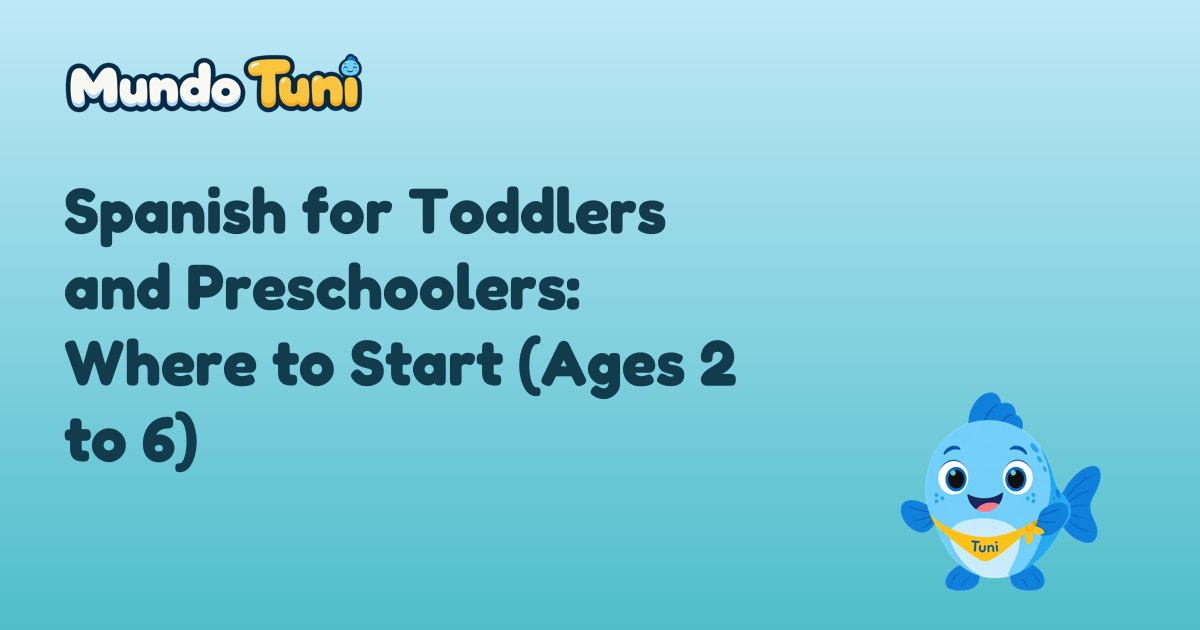
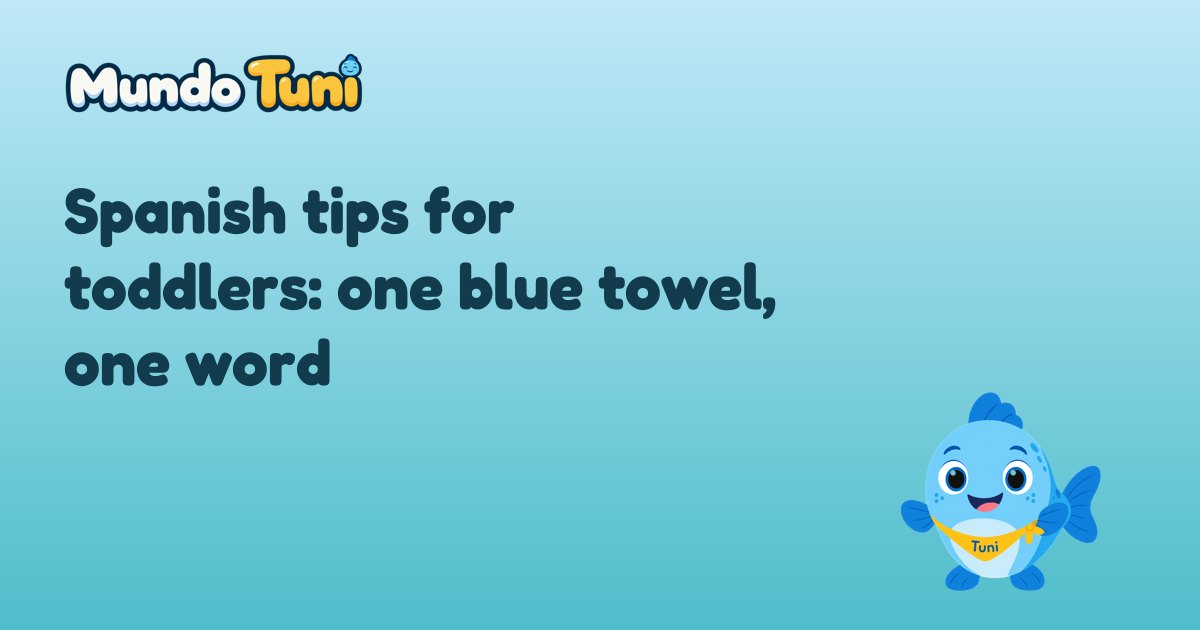
Publica el juego de la toalla azul en la guía de español para familias

Changed region(s): [[0.0308, 0.3921, 0.6475, 0.754], [0.2467, 0.3016, 0.555, 0.3921]]

diff --git a/en/blog/spanish-for-toddlers.html b/en/blog/spanish-for-toddlers.html
@@ -3,8 +3,8 @@
 <head>
   <meta charset="utf-8">
   <meta name="viewport" content="width=device-width, initial-scale=1">
-  <title>Spanish for Toddlers: A Parent’s Guide, Ages 2 to 6 · Mundo Tuni</title>
-  <meta name="description" content="Spanish for toddlers and preschoolers: when to start, why exposure and live talk matter, first words, songs, routines and what to check in an app.">
+  <title>Spanish Tips for Toddlers: A Blue Towel Game · Mundo Tuni</title>
+  <meta name="description" content="Try one Spanish word at laundry time: show a blue towel, say azul, find something blue, then fold it together. Three steps to try with your toddler.">
 <link rel="canonical" href="https://mundotuni.com/en/blog/spanish-for-toddlers.html">  <link rel="alternate" hreflang="en" href="https://mundotuni.com/en/blog/spanish-for-toddlers.html">
   <link rel="alternate" hreflang="x-default" href="https://mundotuni.com/en/blog/spanish-for-toddlers.html">
 <meta name="robots" content="index, follow, max-image-preview:large, max-snippet:-1">  <meta name="theme-color" content="#87CEEB">
@@ -12,16 +12,16 @@
   <meta property="og:type" content="article">
   <meta property="og:site_name" content="Mundo Tuni">
   <meta property="og:locale" content="en_US">
-  <meta property="og:title" content="Spanish for Toddlers: A Parent’s Guide, Ages 2 to 6 · Mundo Tuni">
-  <meta property="og:description" content="Spanish for toddlers and preschoolers: when to start, why exposure and live talk matter, first words, songs, routines and what to check in an app.">
+  <meta property="og:title" content="Spanish Tips for Toddlers: A Blue Towel Game · Mundo Tuni">
+  <meta property="og:description" content="Try one Spanish word at laundry time: show a blue towel, say azul, find something blue, then fold it together. Three steps to try with your toddler.">
   <meta property="og:url" content="https://mundotuni.com/en/blog/spanish-for-toddlers.html">
   <meta property="og:image" content="https://mundotuni.com/img/og/spanish-for-toddlers.jpg">
   <meta property="og:image:width" content="1200">
   <meta property="og:image:height" content="630">
-  <meta property="og:image:alt" content="Spanish for Toddlers and Preschoolers: Where to Start (Ages 2 to 6) · Mundo Tuni">
+  <meta property="og:image:alt" content="Spanish tips for toddlers: one blue towel, one word · Mundo Tuni">
   <meta name="twitter:card" content="summary_large_image">
-  <meta name="twitter:title" content="Spanish for Toddlers: A Parent’s Guide, Ages 2 to 6 · Mundo Tuni">
-  <meta name="twitter:description" content="Spanish for toddlers and preschoolers: when to start, why exposure and live talk matter, first words, songs, routines and what to check in an app.">
+  <meta name="twitter:title" content="Spanish Tips for Toddlers: A Blue Towel Game · Mundo Tuni">
+  <meta name="twitter:description" content="Try one Spanish word at laundry time: show a blue towel, say azul, find something blue, then fold it together. Three steps to try with your toddler.">
   <meta name="twitter:image" content="https://mundotuni.com/img/og/spanish-for-toddlers.jpg">
   <link rel="icon" href="../../icon.png" type="image/png">
   <link rel="apple-touch-icon" href="../../apple-touch-icon.png">
@@ -32,12 +32,12 @@
   {"@context":"https://schema.org","@type":"Organization","@id":"https://mundotuni.com/#organization","name":"Mundo Tuni","url":"https://mundotuni.com/","logo":"https://mundotuni.com/icon-512.png","sameAs":["https://www.instagram.com/mundotuni/", "https://www.tiktok.com/@mundotuni", "https://www.youtube.com/@mundotuniapp"]}
   </script>
   <meta property="article:published_time" content="2026-10-31">
-  <meta property="article:modified_time" content="2026-11-22">
+  <meta property="article:modified_time" content="2026-11-25">
   <script type="application/ld+json">
-  {"@context":"https://schema.org","@type":"BlogPosting","headline":"Spanish for Toddlers and Preschoolers: Where to Start (Ages 2 to 6)","description":"Spanish for toddlers and preschoolers: when to start, why exposure and live talk matter, first words, songs, routines and what to check in an app.","datePublished":"2026-10-31","dateModified":"2026-11-22","inLanguage":"en-US","mainEntityOfPage":"https://mundotuni.com/en/blog/spanish-for-toddlers.html","wordCount":1577,"keywords":"Spanish for toddlers, Spanish for preschoolers, how to teach my toddler Spanish, when to start teaching toddler Spanish, Spanish app for toddlers, Spanish immersion at home","image":"https://mundotuni.com/img/og/spanish-for-toddlers.jpg","author":{"@type":"Organization","@id":"https://mundotuni.com/#organization","name":"Mundo Tuni","url":"https://mundotuni.com/"},"publisher":{"@type":"Organization","@id":"https://mundotuni.com/#organization","name":"Mundo Tuni","url":"https://mundotuni.com/","logo":{"@type":"ImageObject","url":"https://mundotuni.com/icon-512.png"}}}
+  {"@context":"https://schema.org","@type":"BlogPosting","headline":"Spanish tips for toddlers: one blue towel, one word","description":"Try one Spanish word at laundry time: show a blue towel, say azul, find something blue, then fold it together. Three steps to try with your toddler.","datePublished":"2026-10-31","dateModified":"2026-11-25","inLanguage":"en-US","mainEntityOfPage":"https://mundotuni.com/en/blog/spanish-for-toddlers.html","wordCount":1672,"keywords":"Spanish for toddlers, Spanish for preschoolers, how to teach my toddler Spanish, when to start teaching toddler Spanish, Spanish app for toddlers, Spanish immersion at home","image":"https://mundotuni.com/img/og/spanish-for-toddlers.jpg","author":{"@type":"Organization","@id":"https://mundotuni.com/#organization","name":"Mundo Tuni","url":"https://mundotuni.com/"},"publisher":{"@type":"Organization","@id":"https://mundotuni.com/#organization","name":"Mundo Tuni","url":"https://mundotuni.com/","logo":{"@type":"ImageObject","url":"https://mundotuni.com/icon-512.png"}}}
   </script>
   <script type="application/ld+json">
-  {"@context":"https://schema.org","@type":"BreadcrumbList","itemListElement":[{"@type":"ListItem","position":1,"name":"Mundo Tuni","item":"https://mundotuni.com/en/"},{"@type":"ListItem","position":2,"name":"Blog","item":"https://mundotuni.com/en/blog/"},{"@type":"ListItem","position":3,"name":"Spanish for Toddlers and Preschoolers: Where to Start (Ages 2 to 6)","item":"https://mundotuni.com/en/blog/spanish-for-toddlers.html"}]}
+  {"@context":"https://schema.org","@type":"BreadcrumbList","itemListElement":[{"@type":"ListItem","position":1,"name":"Mundo Tuni","item":"https://mundotuni.com/en/"},{"@type":"ListItem","position":2,"name":"Blog","item":"https://mundotuni.com/en/blog/"},{"@type":"ListItem","position":3,"name":"Spanish tips for toddlers: one blue towel, one word","item":"https://mundotuni.com/en/blog/spanish-for-toddlers.html"}]}
   </script>
   <script type="module" src="https://static.cloudflareinsights.com/beacon.min.js" data-cf-beacon='{"token": "f3261326926c4605a8eb90123276466e"}'></script>
 </head>
@@ -65,9 +65,9 @@
   <header class="page-hero post-hero">
     <div class="wrap narrow">
       <p class="eyebrow"><a href="../../en/blog/">Blog</a></p>
-      <h1>Spanish for Toddlers and Preschoolers: Where to Start (Ages 2 to 6)</h1>
-      <p class="lead">A toddler can start hearing Spanish at any age, whether or not you speak it. What the research we reviewed links to progress is how much Spanish a child hears and whether it comes from people who respond. This guide gathers the basics and points to our detailed articles on each step.</p>
-      <p class="post-meta">Published <time datetime="2026-10-31">October 31, 2026</time> · Updated <time datetime="2026-11-22">November 22, 2026</time> · 8 min read</p>
+      <h1>Spanish tips for toddlers: one blue towel, one word</h1>
+      <p class="lead">Start with one blue towel and one Spanish word: azul. This guide shows you what to say, how to invite a turn and where to find more words, songs and routines for ages 2 to 6.</p>
+      <p class="post-meta">Published <time datetime="2026-10-31">October 31, 2026</time> · Updated <time datetime="2026-11-25">November 25, 2026</time> · 9 min read</p>
     </div>
   </header>
   <div class="section">
@@ -76,7 +76,10 @@
         <p class="toc-title">In this article</p>
         <ol><li><a href="#can-a-toddler-learn-spanish-at-home-if-you-dont-sp">Can a toddler learn Spanish at home if you don’t speak it?</a></li><li><a href="#what-does-research-say-about-how-toddlers-learn-a-">What does research say about how toddlers learn a second language?</a></li><li><a href="#when-should-you-start-teaching-your-toddler-spanis">When should you start teaching your toddler Spanish?</a></li><li><a href="#which-spanish-words-and-phrases-come-first">Which Spanish words and phrases come first?</a></li><li><a href="#songs-books-and-daily-routines">Songs, books and daily routines</a></li><li><a href="#spain-spanish-or-latin-american-spanish">Spain Spanish or Latin American Spanish?</a></li><li><a href="#if-your-child-understands-spanish-but-answers-in-e">If your child understands Spanish but answers in English</a></li><li><a href="#where-do-apps-fit-and-what-should-you-check">Where do apps fit, and what should you check?</a></li><li><a href="#and-in-mundo-tuni">And in Mundo Tuni?</a></li><li><a href="#frequently-asked-questions">Frequently asked questions</a></li></ol>
       </nav>
-      <p>Adding Spanish to a toddler’s life doesn’t need a fluent parent, a special method or a particular age. The pediatric and speech-language sources we read say young children can learn more than one language and that doing so doesn’t cause delay. The studies we cite point to two things you can work on: how much Spanish your child hears, and whether it comes through real back-and-forth with people. None of them promises fluency, and we won’t either.</p>
+      <p>Putting away laundry? Hold up a blue towel and say <span lang="es">“Azul”</span> (blue). Invite your child to find one more blue thing nearby, then fold the towel together. Looking or pointing is enough; your child does not have to say the word.</p>
+<p>The <a href="colors-numbers-in-spanish-for-kids.html#blue-towel-game">three-step blue towel game</a> gives you the full instructions and a way to try the same word with a toy another day. Start there, then use this guide to choose a few words, a song or a routine that fits your family. The game is our play suggestion, not a tested learning program.</p>
+
+<p>Adding Spanish to a toddler’s life doesn’t need a fluent parent, a special method or a particular age. The pediatric and speech-language sources we read say young children can learn more than one language and that doing so doesn’t cause delay. The studies we cite point to two things you can work on: how much Spanish your child hears, and whether it comes through real back-and-forth with people. None of them promises fluency, and we won’t either.</p>
 
 <div class="box">
   <p><strong>The short version</strong></p>

diff --git a/en/blog/index.html b/en/blog/index.html
@@ -34,7 +34,7 @@
   {"@context":"https://schema.org","@type":"Organization","@id":"https://mundotuni.com/#organization","name":"Mundo Tuni","url":"https://mundotuni.com/","logo":"https://mundotuni.com/icon-512.png","sameAs":["https://www.instagram.com/mundotuni/", "https://www.tiktok.com/@mundotuni", "https://www.youtube.com/@mundotuniapp"]}
   </script>
   <script type="application/ld+json">
-  {"@context":"https://schema.org","@type":"Blog","name":"Mundo Tuni Blog \u00b7 Learning Through Play, Ages 2 to 6","url":"https://mundotuni.com/en/blog/","inLanguage":"en-US","publisher":{"@type":"Organization","name":"Mundo Tuni","url":"https://mundotuni.com/","logo":"https://mundotuni.com/icon-512.png"},"blogPost":[{"@type":"BlogPosting","headline":"The Spanish Alphabet for Kids: Letters, Names and Sounds","url":"https://mundotuni.com/en/blog/spanish-alphabet-for-kids.html","datePublished":"2026-11-20"},{"@type":"BlogPosting","headline":"How we write our guides","url":"https://mundotuni.com/en/blog/how-we-write-our-guides.html","datePublished":"2026-11-13"},{"@type":"BlogPosting","headline":"Screen-free games to share at home","url":"https://mundotuni.com/en/blog/screen-free-games-at-home-ages-2-6.html","datePublished":"2026-11-13"},{"@type":"BlogPosting","headline":"Spanish for Toddlers and Preschoolers: Where to Start (Ages 2 to 6)","url":"https://mundotuni.com/en/blog/spanish-for-toddlers.html","datePublished":"2026-10-31"},{"@type":"BlogPosting","headline":"How Long Can a Toddler or Preschooler Focus?","url":"https://mundotuni.com/en/blog/how-long-can-toddler-focus.html","datePublished":"2026-10-30"},{"@type":"BlogPosting","headline":"Spanish Songs for Toddlers: What They Do and How to Use Them","url":"https://mundotuni.com/en/blog/spanish-songs-for-toddlers.html","datePublished":"2026-10-30"},{"@type":"BlogPosting","headline":"My Child Understands Spanish but Answers in English: What to Do","url":"https://mundotuni.com/en/blog/child-understands-spanish-answers-english.html","datePublished":"2026-10-24"},{"@type":"BlogPosting","headline":"Colors and Numbers in Spanish: Play Ideas for Toddlers","url":"https://mundotuni.com/en/blog/colors-numbers-in-spanish-for-kids.html","datePublished":"2026-10-24"},{"@type":"BlogPosting","headline":"Does Bilingualism Cause Speech Delay? What Research Says About Toddlers","url":"https://mundotuni.com/en/blog/does-bilingualism-cause-speech-delay.html","datePublished":"2026-10-24"},{"@type":"BlogPosting","headline":"First Spanish Words for Toddlers: Where to Start","url":"https://mundotuni.com/en/blog/first-spanish-words-for-toddlers.html","datePublished":"2026-10-24"},{"@type":"BlogPosting","headline":"How to Help Your Toddler\u2019s Language Development Through Play","url":"https://mundotuni.com/en/blog/help-toddler-language-development-play.html","datePublished":"2026-10-24"},{"@type":"BlogPosting","headline":"How to Choose an Educational App for Kids Ages 2 to 6: 8 Questions","url":"https://mundotuni.com/en/blog/how-to-choose-an-educational-app-for-kids.html","datePublished":"2026-10-24"},{"@type":"BlogPosting","headline":"Kindergarten Readiness: Early Math and Literacy at Home","url":"https://mundotuni.com/en/blog/kindergarten-readiness-math-literacy.html","datePublished":"2026-10-24"},{"@type":"BlogPosting","headline":"Raising Bilingual Kids in the US: Keeping Spanish Alive at Home","url":"https://mundotuni.com/en/blog/raising-bilingual-kids-keep-spanish.html","datePublished":"2026-10-24"},{"@type":"BlogPosting","headline":"Screen-Free Car Games for Toddlers and Preschoolers (and Waiting Rooms)","url":"https://mundotuni.com/en/blog/screen-free-car-games-for-toddlers.html","datePublished":"2026-10-24"},{"@type":"BlogPosting","headline":"Screen Time for Toddlers: What the AAP and the WHO Say Now","url":"https://mundotuni.com/en/blog/screen-time-toddlers-aap-2026.html","datePublished":"2026-10-24"},{"@type":"BlogPosting","headline":"Spain or Latin American Spanish: Which for Your Child?","url":"https://mundotuni.com/en/blog/spain-vs-latin-american-spanish-for-kids.html","datePublished":"2026-10-24"},{"@type":"BlogPosting","headline":"How to Teach Counting to Toddlers and Preschoolers","url":"https://mundotuni.com/en/blog/teach-counting-toddlers-preschoolers.html","datePublished":"2026-10-24"},{"@type":"BlogPosting","headline":"How to Teach Your Toddler Spanish If You Don\u2019t Speak It","url":"https://mundotuni.com/en/blog/teach-toddler-spanish-non-native-parents.html","datePublished":"2026-10-24"}]}
+  {"@context":"https://schema.org","@type":"Blog","name":"Mundo Tuni Blog \u00b7 Learning Through Play, Ages 2 to 6","url":"https://mundotuni.com/en/blog/","inLanguage":"en-US","publisher":{"@type":"Organization","name":"Mundo Tuni","url":"https://mundotuni.com/","logo":"https://mundotuni.com/icon-512.png"},"blogPost":[{"@type":"BlogPosting","headline":"The Spanish Alphabet for Kids: Letters, Names and Sounds","url":"https://mundotuni.com/en/blog/spanish-alphabet-for-kids.html","datePublished":"2026-11-20"},{"@type":"BlogPosting","headline":"How we write our guides","url":"https://mundotuni.com/en/blog/how-we-write-our-guides.html","datePublished":"2026-11-13"},{"@type":"BlogPosting","headline":"Screen-free games to share at home","url":"https://mundotuni.com/en/blog/screen-free-games-at-home-ages-2-6.html","datePublished":"2026-11-13"},{"@type":"BlogPosting","headline":"Spanish tips for toddlers: one blue towel, one word","url":"https://mundotuni.com/en/blog/spanish-for-toddlers.html","datePublished":"2026-10-31"},{"@type":"BlogPosting","headline":"How Long Can a Toddler or Preschooler Focus?","url":"https://mundotuni.com/en/blog/how-long-can-toddler-focus.html","datePublished":"2026-10-30"},{"@type":"BlogPosting","headline":"Spanish Songs for Toddlers: What They Do and How to Use Them","url":"https://mundotuni.com/en/blog/spanish-songs-for-toddlers.html","datePublished":"2026-10-30"},{"@type":"BlogPosting","headline":"My Child Understands Spanish but Answers in English: What to Do","url":"https://mundotuni.com/en/blog/child-understands-spanish-answers-english.html","datePublished":"2026-10-24"},{"@type":"BlogPosting","headline":"Colors and Numbers in Spanish: Play Ideas for Toddlers","url":"https://mundotuni.com/en/blog/colors-numbers-in-spanish-for-kids.html","datePublished":"2026-10-24"},{"@type":"BlogPosting","headline":"Does Bilingualism Cause Speech Delay? What Research Says About Toddlers","url":"https://mundotuni.com/en/blog/does-bilingualism-cause-speech-delay.html","datePublished":"2026-10-24"},{"@type":"BlogPosting","headline":"First Spanish Words for Toddlers: Where to Start","url":"https://mundotuni.com/en/blog/first-spanish-words-for-toddlers.html","datePublished":"2026-10-24"},{"@type":"BlogPosting","headline":"How to Help Your Toddler\u2019s Language Development Through Play","url":"https://mundotuni.com/en/blog/help-toddler-language-development-play.html","datePublished":"2026-10-24"},{"@type":"BlogPosting","headline":"How to Choose an Educational App for Kids Ages 2 to 6: 8 Questions","url":"https://mundotuni.com/en/blog/how-to-choose-an-educational-app-for-kids.html","datePublished":"2026-10-24"},{"@type":"BlogPosting","headline":"Kindergarten Readiness: Early Math and Literacy at Home","url":"https://mundotuni.com/en/blog/kindergarten-readiness-math-literacy.html","datePublished":"2026-10-24"},{"@type":"BlogPosting","headline":"Raising Bilingual Kids in the US: Keeping Spanish Alive at Home","url":"https://mundotuni.com/en/blog/raising-bilingual-kids-keep-spanish.html","datePublished":"2026-10-24"},{"@type":"BlogPosting","headline":"Screen-Free Car Games for Toddlers and Preschoolers (and Waiting Rooms)","url":"https://mundotuni.com/en/blog/screen-free-car-games-for-toddlers.html","datePublished":"2026-10-24"},{"@type":"BlogPosting","headline":"Screen Time for Toddlers: What the AAP and the WHO Say Now","url":"https://mundotuni.com/en/blog/screen-time-toddlers-aap-2026.html","datePublished":"2026-10-24"},{"@type":"BlogPosting","headline":"Spain or Latin American Spanish: Which for Your Child?","url":"https://mundotuni.com/en/blog/spain-vs-latin-american-spanish-for-kids.html","datePublished":"2026-10-24"},{"@type":"BlogPosting","headline":"How to Teach Counting to Toddlers and Preschoolers","url":"https://mundotuni.com/en/blog/teach-counting-toddlers-preschoolers.html","datePublished":"2026-10-24"},{"@type":"BlogPosting","headline":"How to Teach Your Toddler Spanish If You Don\u2019t Speak It","url":"https://mundotuni.com/en/blog/teach-toddler-spanish-non-native-parents.html","datePublished":"2026-10-24"}]}
   </script>
   <script type="module" src="https://static.cloudflareinsights.com/beacon.min.js" data-cf-beacon='{"token": "f3261326926c4605a8eb90123276466e"}'></script>
 </head>
@@ -91,9 +91,9 @@
       </li>
       <li class="post-card post-words">
         <span class="post-icon" aria-hidden="true"><img src="../../img/ic_words.webp" alt="" width="160" height="160" loading="lazy" decoding="async"></span>
-        <p class="post-meta"><time datetime="2026-10-31">October 31, 2026</time> · 8 min read</p>
-        <h2><a href="spanish-for-toddlers.html">Spanish for Toddlers and Preschoolers: Where to Start (Ages 2 to 6)</a></h2>
-        <p>Spanish for toddlers and preschoolers: when to start, why exposure and live talk matter, first words, songs, routines and what to check in an app.</p>
+        <p class="post-meta"><time datetime="2026-10-31">October 31, 2026</time> · 9 min read</p>
+        <h2><a href="spanish-for-toddlers.html">Spanish tips for toddlers: one blue towel, one word</a></h2>
+        <p>Try one Spanish word at laundry time: show a blue towel, say azul, find something blue, then fold it together. Three steps to try with your toddler.</p>
         <a class="text-link" href="spanish-for-toddlers.html" aria-hidden="true" tabindex="-1">Read <span>→</span></a>
       </li>
       <li class="post-card post-music">

diff --git a/en/blog/spanish-alphabet-for-kids.html b/en/blog/spanish-alphabet-for-kids.html
@@ -219,9 +219,9 @@
       </li>
       <li class="post-card post-words">
         <span class="post-icon" aria-hidden="true"><img src="../../img/ic_words.webp" alt="" width="160" height="160" loading="lazy" decoding="async"></span>
-        <p class="post-meta"><time datetime="2026-10-31">October 31, 2026</time> · 8 min read</p>
-        <h3><a href="spanish-for-toddlers.html">Spanish for Toddlers and Preschoolers: Where to Start (Ages 2 to 6)</a></h3>
-        <p>Spanish for toddlers and preschoolers: when to start, why exposure and live talk matter, first words, songs, routines and what to check in an app.</p>
+        <p class="post-meta"><time datetime="2026-10-31">October 31, 2026</time> · 9 min read</p>
+        <h3><a href="spanish-for-toddlers.html">Spanish tips for toddlers: one blue towel, one word</a></h3>
+        <p>Try one Spanish word at laundry time: show a blue towel, say azul, find something blue, then fold it together. Three steps to try with your toddler.</p>
       </li>
     </ul>
   </div>
